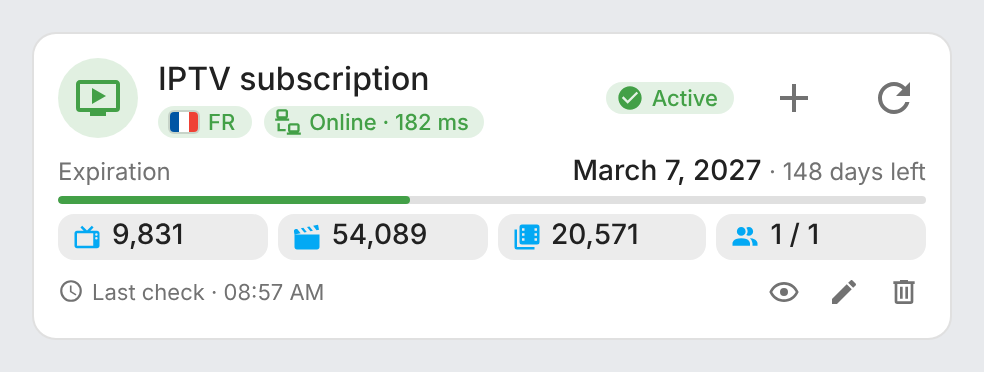
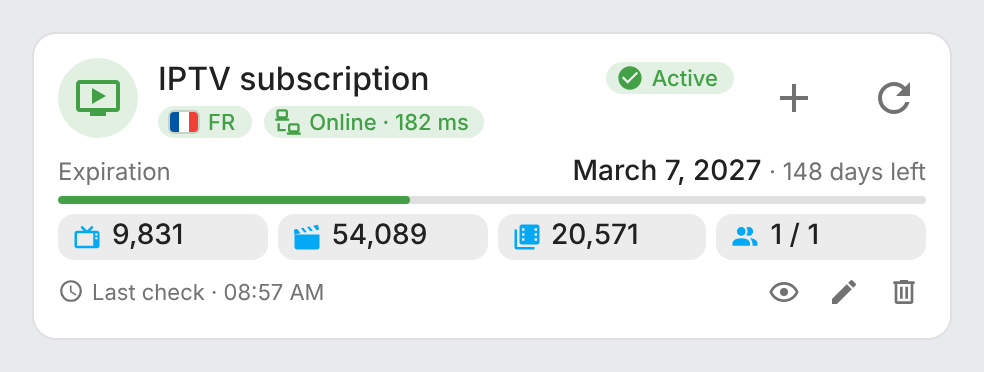
Align the status pill with the title line
With one subscription, the status pill now ends the title line inside
the titles block, so its centre matches the title's instead of the
whole block's (10 px lower when the French flag and health pills sit
under the title). The badge and buttons keep their place; the mini
card was already aligned.

Claude-Session: https://claude.ai/code/session_01NW8HrjdUvTF3zwsaKKxQNw

Changed region(s): [[0.6098, 0.1478, 0.7622, 0.3253]]

diff --git a/custom_components/iptv/frontend/iptv-card.js b/custom_components/iptv/frontend/iptv-card.js
@@ -218,14 +218,16 @@ class IptvCard extends HTMLElement {
     :host { display: block; position: relative; --iptv-ok: var(--success-color, #43a047); --iptv-warn: var(--warning-color, #ffa600); --iptv-crit: var(--error-color, #db4437); }
     ha-card { padding: 12px; display: flex; flex-direction: column; gap: 6px; }
     .ok { --c: var(--iptv-ok); } .warning { --c: var(--iptv-warn); } .error { --c: var(--iptv-crit); } .idle { --c: var(--secondary-text-color); }
-    /* 8 px to the body (the card gap is 6 px); the status pill sits right of the titles, before the buttons */
+    /* 8 px to the body (the card gap is 6 px); the status pill ends the title line, before the buttons */
     .header { display: flex; align-items: center; gap: 10px; margin-bottom: 2px; }
-    .header > .chip { flex: none; }
     .header > button:last-child:not(.zoom) { margin-right: -4px; }
     .badge { width: 40px; height: 40px; border-radius: 50%; display: grid; place-items: center; flex: none;
              background: color-mix(in srgb, var(--c) 16%, transparent); color: var(--c); --mdc-icon-size: 24px; }
     .badge ha-icon { display: inline-flex; }
     .titles { flex: 1; min-width: 0; }
+    .title-row { display: flex; align-items: center; gap: 10px; }
+    .title-row .name { flex: 1; min-width: 0; }
+    .title-row > .chip { flex: none; }
     .name { font-size: 16px; font-weight: 500; line-height: 1.25; color: var(--primary-text-color); white-space: nowrap; overflow: hidden; text-overflow: ellipsis; }
     .chips { display: flex; flex-wrap: wrap; gap: 6px; margin-top: 4px; }
     .chip { display: inline-flex; align-items: center; gap: 4px; padding: 1px 8px 1px 5px; border-radius: 12px; font-size: 11px; font-weight: 500;
@@ -584,7 +586,7 @@ class IptvCard extends HTMLElement {
         </div>`;
 
     var body;
-    // One subscription: its status pill in the header row, the other pills under the title
+    // One subscription: its status pill ends the title line, the other pills go under it
     var status = '';
     var info = '';
     // State of each subscription shown (an unreachable one counts as an error), for the header badge
@@ -627,8 +629,7 @@ class IptvCard extends HTMLElement {
       <ha-card>
         <div class="header">
           ${iptvBadge(iptvWorstState(states))}
-          <div class="titles"><div class="name">${esc(title)}</div>${info}</div>
-          ${status}
+          <div class="titles"><div class="title-row"><div class="name">${esc(title)}</div>${status}</div>${info}</div>
           ${admin ? `<button class="add" title="${this._t('add_btn')}"><ha-icon icon="mdi:plus"></ha-icon></button>` : ''}
           <button class="refresh ${this._loading ? 'spin' : ''}" title="${this._t('refresh')}"><ha-icon icon="mdi:refresh"></ha-icon></button>
         </div>

diff --git a/CHANGELOG.md b/CHANGELOG.md
@@ -6,6 +6,7 @@
 - Card and mini card: the header shows a TV icon in a round badge, green, orange or red after the worst state of the subscriptions shown, instead of the integration logo, like the other cards.
 - Mini card: the title uses the full card's size (16 px, line height 1.25) instead of 14 px; a long title still ends with an ellipsis.
 - Card with one subscription: the status pill (Active, Expired…) sits in the header row, right of the title and before the + and refresh buttons; the trial, French flag and health pills stay under the title.
+- Card with one subscription: the status pill is centred on the title line instead of the whole title block, so it stays level with the title when the French flag and health pills sit under it.
 - Add, edit and remove popups: the Save / Create and Delete buttons are tinted with the primary or error colour instead of filled.
 - Card and mini card: 12 px around the content (was 8 px at the top and 10 px on the sides) and 8 px between the header and the body; the mini card badge sits at the top, 12 px from the edges.
 
